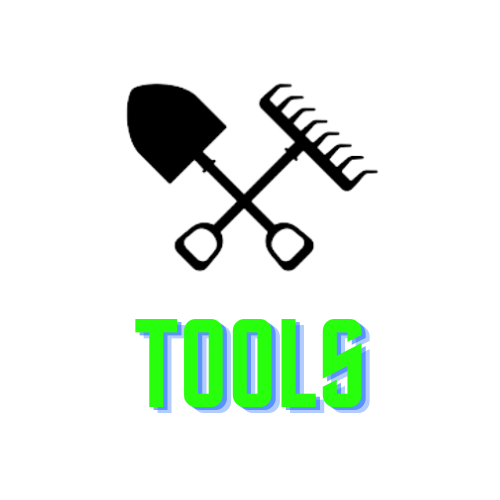
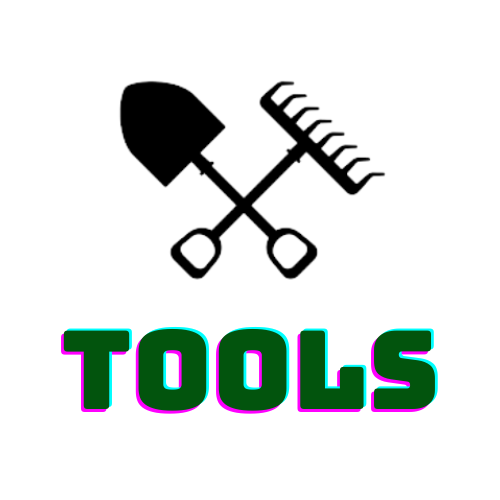
Updated colors

Changed region(s): [[0.12, 0.63, 0.9, 0.84], [0.24, 0.15, 0.78, 0.57], [0.39, 0.18, 0.42, 0.21]]

diff --git a/src/app/addproduct/page.jsx b/src/app/addproduct/page.jsx
@@ -74,11 +74,11 @@ const AddProduct = () => {
       {session ?
         <div className='flex flex-col items-center'>
           <div className="space-y-2 pb-8 pt-6">
-            <h1 className="text-3xl font-extrabold leading-9 tracking-tight sm:text-4xl sm:leading-10 md:text-5xl md:leading-14 text-yellow-900 text-center">
+            <h1 className="text-3xl font-extrabold leading-9 tracking-tight sm:text-4xl sm:leading-10 md:text-5xl md:leading-14 text-white text-center">
               Add the PRODUCT here...
             </h1>
           </div>
-          <div className="flex flex-col w-[90vw] items-center bg-gradient-to-t from-primary-200 to-gray-200 dark:to-gray-700 rounded-xl shadow-md">
+          <div className="flex flex-col w-[90vw] items-center bg-background-100 to-gray-200 dark:to-gray-700 rounded-xl shadow-md">
 
             <div className="w-full px-4 md:px-12">
               <form className="mt-6" onSubmit={handleSubmit}>
@@ -110,7 +110,7 @@ const AddProduct = () => {
                   </label>
                   <select 
                     id="category" 
-                    className="w-full md:w-1/2 bg-gray-50 border border-gray-300 text-gray-900 rounded focus:ring-blue-500 focus:border-blue-500 block p-1"
+                    className="w-full md:w-1/2 p-2 bg-gray-50 border border-gray-300 text-gray-900 rounded focus:ring-blue-500 focus:border-blue-500 block"
                     onChange={({ target }) => {
                       setProductInfo({ ...productInfo, category: target.value })
                       setUserError('')
@@ -197,7 +197,7 @@ const AddProduct = () => {
                   <div className="flex gap-2 bg-white w-full relative min-h-max border border-yellow-300 rounded p-2 overflow-auto">
                     {productInfo.tags.map((tag, index) => {
                       return (
-                        <div key={index} className="flex items-center gap-1 text-xl text-black bg-primary-200 p-1 rounded-xl">
+                        <div key={index} className="flex items-center gap-1 text-xl text-black bg-white border-2 p-1 rounded-xl">
                           #{tag}
                           <AiFillCloseCircle
                             onClick={() => removeTag(tag)}
@@ -221,7 +221,7 @@ const AddProduct = () => {
                       }}
                     />
                     <label
-                      className="w-fit py-2 px-4 bg-gray-500 text-white rounded hover:scale-105"
+                      className="w-fit py-2 px-4 bg-primary-800 text-white rounded hover:scale-105"
                       onClick={addTag}
                       htmlFor="tags"
                     >
@@ -264,12 +264,12 @@ const AddProduct = () => {
                 <div className="mt-2 mb-4 flex justify-center gap-2 sm:gap-10">
                   <Link
                     href='/profile'
-                    className="w-fit px-4 py-2 tracking-wide text-black transition-colors duration-200 transform bg-red-600 rounded-md hover:bg-red-400 focus:outline-none focus:bg-yellow-600"
+                    className="w-fit px-4 py-2 tracking-wide text-black transition-colors duration-200 transform bg-yellow-600 rounded-md hover:bg-yellow-400 focus:outline-none focus:bg-yellow-600"
                   >
                     CANCEL
                   </Link>
                   <button
-                    className="w-fit px-4 py-2 tracking-wide text-black transition-colors duration-200 transform bg-yellow-600 rounded-md hover:bg-yellow-400 focus:outline-none focus:bg-yellow-600"
+                    className="w-fit px-4 py-2 tracking-wide text-white transition-colors duration-200 transform bg-primary-800 rounded-md hover:bg-primary-900 focus:outline-none focus:bg-yellow-600"
                   >
                     SUBMIT
                   </button>

diff --git a/src/app/category/[category]/page.jsx b/src/app/category/[category]/page.jsx
@@ -108,13 +108,13 @@ const CategorySpecific = (props) => {
     <>
       <div>
         <div className="space-y-2 pb-8 pt-6 md:space-y-5">
-          <h1 className="text-3xl font-extrabold leading-9 uppercase tracking-tight sm:text-4xl sm:leading-10 md:text-5xl md:leading-14 text-center text-yellow-900">
+          <h1 className="text-3xl font-extrabold leading-9 uppercase tracking-tight sm:text-4xl sm:leading-10 md:text-5xl md:leading-14 text-center text-white">
             {category}
           </h1>
         </div>
         {session ?
           <>
-            <div className='flex justify-center items-center gap-4 text-lg sm:text-xl md:text-2xl text-bold bg-green-400 w-fit mx-auto py-2 px-2 sm:px-6 rounded-xl'>
+            <div className='flex justify-center text-white items-center gap-4 text-lg sm:text-xl md:text-2xl text-bold bg-primary-800 w-fit mx-auto py-2 px-2 sm:px-6 rounded-xl'>
               <BiArrowToLeft
                 className='bg-white text-black dark:bg-black dark:text-white hover:scale-150 scale-125 rounded transition-all duration-300'
                 onClick={() => decrementPageNo(highDecrement)}
@@ -123,7 +123,7 @@ const CategorySpecific = (props) => {
                 className='bg-white text-black dark:bg-black dark:text-white hover:scale-150 scale-125 rounded transition-all duration-300'
                 onClick={() => decrementPageNo(decrement)}
               />
-              <div className='flex flex-col sm:flex-row gap-2 sm:gap-4 text-black'>
+              <div className='flex flex-col sm:flex-row gap-2 sm:gap-4'>
                 <span>Page:</span>
                 <span>{currentPageNo} / {data.totalPages}</span>
               </div>
@@ -186,7 +186,7 @@ const CategorySpecific = (props) => {
               })}
             </ul>
 
-            <div className='flex justify-center items-center gap-4 text-lg sm:text-xl md:text-2xl text-bold bg-green-400 w-fit mx-auto py-2 px-2 sm:px-6 rounded-xl'>
+            <div className='flex justify-center text-white items-center gap-4 text-lg sm:text-xl md:text-2xl text-bold bg-primary-800 w-fit mx-auto py-2 px-2 sm:px-6 rounded-xl'>
               <BiArrowToLeft
                 className='bg-white text-black dark:bg-black dark:text-white hover:scale-150 scale-125 rounded transition-all duration-300'
                 onClick={() => decrementPageNo(highDecrement)}
@@ -195,7 +195,7 @@ const CategorySpecific = (props) => {
                 className='bg-white text-black dark:bg-black dark:text-white hover:scale-150 scale-125 rounded transition-all duration-300'
                 onClick={() => decrementPageNo(decrement)}
               />
-              <div className='flex flex-col sm:flex-row gap-2 sm:gap-4 text-black'>
+              <div className='flex flex-col sm:flex-row gap-2 sm:gap-4'>
                 <span>Page:</span>
                 <span>{currentPageNo} / {data.totalPages}</span>
               </div>

diff --git a/src/app/about/page.jsx b/src/app/about/page.jsx
@@ -10,11 +10,11 @@ const About = () => {
     <>
       <div className="divide-y divide-gray-200 dark:divide-gray-700">
         <div className="space-y-2 pb-8 pt-6 md:space-y-5">
-          <h1 className="text-3xl font-extrabold leading-9 tracking-tight sm:text-4xl sm:leading-10 md:text-5xl md:leading-14 text-center text-yellow-900">
+          <h1 className="text-3xl font-extrabold leading-9 tracking-tight sm:text-4xl sm:leading-10 md:text-5xl md:leading-14 text-center text-white">
             &quot; WHERE QUALITY MEETS THE SOIL, AND EVERY PRODUCT TELLS A STORY. &quot;
           </h1>
         </div>
-        <div className="items-start space-y-2 xl:grid xl:grid-cols-3 xl:gap-x-8 xl:space-y-0">
+        <div className="items-start space-y-2 xl:grid xl:grid-cols-3 xl:gap-x-8 xl:space-y-0 bg-background-100 dark:bg-gray-900 mx-4 rounded-xl py-4">
           <div className="flex flex-col items-center space-2 pt-10">
             <div>
               <Image
@@ -25,7 +25,7 @@ const About = () => {
                 className="h-24 w-28 rounded-full"
               />
             </div>
-            <h3 className="pb-2 pt-4 text-2xl font-bold leading-8  text-yellow-600">
+            <h3 className="pb-2 pt-4 text-2xl font-bold leading-8 text-primary-800 dark:text-primary-200">
               AGRI REVIEW HUB
             </h3>
             <div className="text-gray-500 dark:text-gray-400">A Website made for <b>FARMERS</b></div>
@@ -49,20 +49,20 @@ const About = () => {
             <hr />
             <br />
             <div>
-              <b className='text-yellow-600'>Our Mission</b>
+              <b className='text-primary-800 dark:text-primary-200'>Our Mission</b>
               <p>
                 Collaborate with like-minded individuals, exchange ideas, and
                 develop groundbreaking projects that will shape the future of
                 technology.
               </p>
-              <b className='text-yellow-600'>Expert Insights:</b>
+              <b className='text-primary-800 dark:text-primary-200'>Expert Insights:</b>
               <p>
                 To empower farmers, gardeners, and anyone involved in 
                 agriculture with knowledge and confidence. We&apos;re passionate about the world 
                 of agriculture and believe that the right products can make a world of difference 
                 in your yields, efficiency, and overall satisfaction with your work.
               </p>
-              <b className='text-yellow-600'>Get Involved:</b>
+              <b className='text-primary-800 dark:text-primary-200'>Get Involved:</b>
               <p>
                 We believe in the power of collaboration 
                 and welcome contributions from our community. 

diff --git a/src/app/category/page.jsx b/src/app/category/page.jsx
@@ -51,7 +51,7 @@ const Category = async () => {
     <>
       <div>
         <div className="space-y-2 pb-8 pt-6 md:space-y-5">
-          <h1 className="text-3xl font-extrabold leading-9 tracking-tight sm:text-4xl sm:leading-10 md:text-5xl md:leading-14 text-center text-yellow-900">
+          <h1 className="text-3xl font-extrabold leading-9 tracking-tight sm:text-4xl sm:leading-10 md:text-5xl md:leading-14 text-center text-white">
             CATEGORIES
           </h1>
         </div>
@@ -59,7 +59,7 @@ const Category = async () => {
           <div className="grid grid-cols-1 md:grid-cols-2 lg:grid-cols-3 gap-4 m-4">
             {categories.map((category) => {
               return (
-                <div key={category.title} className="font-medium text-gray-900 dark:text-gray-100 p-2 rounded bg-gradient-to-r from-yellow-400 to-green-600">
+                <div key={category.title} className="font-medium text-gray-900 dark:text-gray-100 p-2 rounded bg-background-100 dark:bg-gray-900">
                   <h2 className='text-center text-xl mb-2 uppercase bg-white dark:bg-black rounded-2xl w-fit mx-auto p-2 dark:text-green-600'>{category.title}</h2>
                   <Image
                     alt={category.title}
@@ -71,7 +71,7 @@ const Category = async () => {
                   <Link
                     key={category.title}
                     href={category.href}
-                    className='flex items-center gap-2 bg-primary-200 text-black dark:bg-black dark:text-green-600 w-fit mx-auto my-3 p-2 rounded-xl hover:scale-110'
+                    className='flex items-center gap-2 bg-primary-800 text-white dark:bg-black dark:text-green-600 w-fit mx-auto my-3 p-2 rounded-xl hover:scale-110'
                   >
                     VIEW <AiOutlineDoubleRight />
                   </Link>

diff --git a/src/components/Profile.jsx b/src/components/Profile.jsx
@@ -126,7 +126,7 @@ const Profile = () => {
           </h3>
           <div className="text-gray-500 dark:text-gray-400">Welcome to your <b>PROFILE</b></div>
         </div>
-        <div className="flex flex-col w-[90vw] md:w-[60vw] items-center bg-gradient-to-t from-primary-200 to-gray-200 dark:to-gray-700 rounded-xl shadow-md">
+        <div className="flex flex-col w-[90vw] md:w-[60vw] items-center bg-background-100 dark:to-gray-700 rounded-xl shadow-md">
           <div className="w-full px-4 md:px-12">
             <form className="mt-6" onSubmit={handleSubmitUsername}>
               <div className="mb-4">
@@ -209,7 +209,7 @@ const Profile = () => {
 
               <div className="mt-2">
                 <button
-                  className="w-full px-4 py-2 tracking-wide text-white transition-colors duration-200 transform bg-yellow-700 rounded-md hover:bg-yellow-600 focus:outline-none focus:bg-yellow-600"
+                  className="w-full px-4 py-2 tracking-wide text-white transition-colors duration-200 transform bg-primary-800 rounded-md hover:bg-yellow-600 focus:outline-none focus:bg-yellow-600"
                 >
                   Update UserName
                 </button>
@@ -301,7 +301,7 @@ const Profile = () => {
 
               <div className="mt-2 mb-4">
                 <button
-                  className="w-full px-4 py-2 tracking-wide text-white transition-colors duration-200 transform bg-yellow-700 rounded-md hover:bg-yellow-600 focus:outline-none focus:bg-yellow-600"
+                  className="w-full px-4 py-2 my-2 tracking-wide text-white transition-colors duration-200 transform bg-primary-800 rounded-md hover:bg-yellow-600 focus:outline-none focus:bg-yellow-600"
                 >
                   Update UserName
                 </button>

diff --git a/src/app/search/page.jsx b/src/app/search/page.jsx
@@ -17,14 +17,14 @@ const Search = () => {
   return (
     <>
 		<div className="flex justify-center items-center mt-4">
-			<div className="container mx-auto bg-gradient-to-r from-primary-100 to-primary-200 rounded-lg p-4">
+			<div className="container mx-auto bg-background-100 dark:bg-gray-900 rounded-lg p-4">
 				<form onSubmit={(e) => handleSubmit(e)}>
-					<h1 className="text-center font-bold mb-4 text-gray-700 dark:text-black text-2xl">What&apos;s in your mind ? </h1>
+					<h1 className="text-center font-bold mb-4 text-gray-700 dark:text-background-100 text-2xl">What&apos;s in your mind ?... </h1>
 
 					<div className="sm:flex items-center bg-white rounded-lg overflow-hidden px-2 py-2 justify-between">
 						<input className="text-base text-gray-600 bg-white flex-grow outline-none px-2 " type="text" placeholder="Search ..." />
 						<div className="rounded-lg space-x-4 mx-auto ">
-							<button className="bg-yellow-600 text-gray-200 text-base rounded-lg px-4 py-2 font-thin">
+							<button className="bg-primary-800 text-gray-200 text-base rounded-lg px-4 py-2 font-thin">
 								<BsFillArrowRightCircleFill />
 							</button>
 						</div>

diff --git a/src/components/Header.jsx b/src/components/Header.jsx
@@ -40,7 +40,7 @@ const Header = () => {
                   />
                 </div>
               </div>
-              <div className="hidden h-6 text-2xl font-semibold sm:block text-yellow-800">
+              <div className="hidden h-6 text-2xl font-semibold sm:block text-gray-900 dark:text-background-100">
                 Agri Review Hub
               </div>
             </div>
@@ -52,7 +52,7 @@ const Header = () => {
               <Link
                 key={link.title}
                 href={link.href}
-                className="hidden md:block font-medium text-gray-900 dark:text-gray-100 hover:bg-green-400 p-2 rounded"
+                className="hidden md:block font-medium text-gray-900 dark:text-gray-100 hover:bg-gray-300 dark:hover:bg-gray-900 p-2 rounded"
               >
                 {link.title}
               </Link>

diff --git a/src/app/layout.jsx b/src/app/layout.jsx
@@ -39,7 +39,7 @@ export default function RootLayout({ children }) {
         <ThemeProviders>
           <section className=''>
             <div className="h-screen font-sans">
-              <div className='h-[60vh] w-full absolute top-0 bg-gradient-to-r from-green-200 to-cyan-300 -z-50'></div>
+              <div className='h-[60vh] w-full absolute top-0 bg-gradient-to-r from-primary-900 to-primary-900 dark:from-primary-600 dark:to-primary-500 -z-50'></div>
               <Header />
               <main className="mt-24">{ children }</main>
               <Footer />

diff --git a/src/components/Footer.jsx b/src/components/Footer.jsx
@@ -5,7 +5,7 @@ import { BiLogoGmail, BiLogoGithub, BiLogoLinkedinSquare }
 export default function Footer() {
   return (
     <footer>
-      <div className="mt-16 flex flex-col items-center">
+      <div className="mt-8 flex flex-col items-center">
         <div className="mb-3 flex space-x-4 text-xl text-green-600">
           <a href="mailto: agropointofficial@gmail.com" target='_blank' rel='norefferer noopener'><BiLogoGmail /></a>
           <a href="https://github.com/sourabhp4/Agro-Point" target='_blank' rel='norefferer noopener'><BiLogoGithub /></a>

diff --git a/src/app/category/products/page.jsx b/src/app/category/products/page.jsx
@@ -78,7 +78,7 @@ const Blogs = async () => {
     <>
       <div>
         <div className="space-y-2 pb-8 pt-6 md:space-y-5">
-          <h1 className="text-3xl font-extrabold leading-9 tracking-tight sm:text-4xl sm:leading-10 md:text-5xl md:leading-14 text-center text-yellow-900">
+          <h1 className="text-3xl font-extrabold leading-9 tracking-tight sm:text-4xl sm:leading-10 md:text-5xl md:leading-14 text-center text-white">
             PRODUCTS TO VIEW
           </h1>
         </div>

diff --git a/src/app/profile/page.jsx b/src/app/profile/page.jsx
@@ -14,7 +14,7 @@ const ProfileComponent = async () => {
   return (
     <>
       <div className="space-y-2 pb-8 pt-6">
-        <h1 className="text-3xl font-extrabold leading-9 tracking-tight sm:text-4xl sm:leading-10 md:text-5xl md:leading-14 text-center text-yellow-900">
+        <h1 className="text-3xl font-extrabold leading-9 tracking-tight sm:text-4xl sm:leading-10 md:text-5xl md:leading-14 text-center text-white">
           YOUR PROFILE
         </h1>
       </div>

diff --git a/tailwind.config.js b/tailwind.config.js
@@ -30,8 +30,17 @@ module.exports = {
       colors: {
         primary: {
           100: '#19D87E',
-          200: '#32EC14'
+          200: '#32EC14',
+          300: '#A1CE5C',
+          400: '#7CD153',
+          500: '#5FA549',
+          600: '#128737',
+          800: '#033221',
+          900: '#04583A',
         },
+        background: {
+          100: '#F5F5F5'
+        }
       },
       typography: ({ theme }) => ({
         DEFAULT: {
